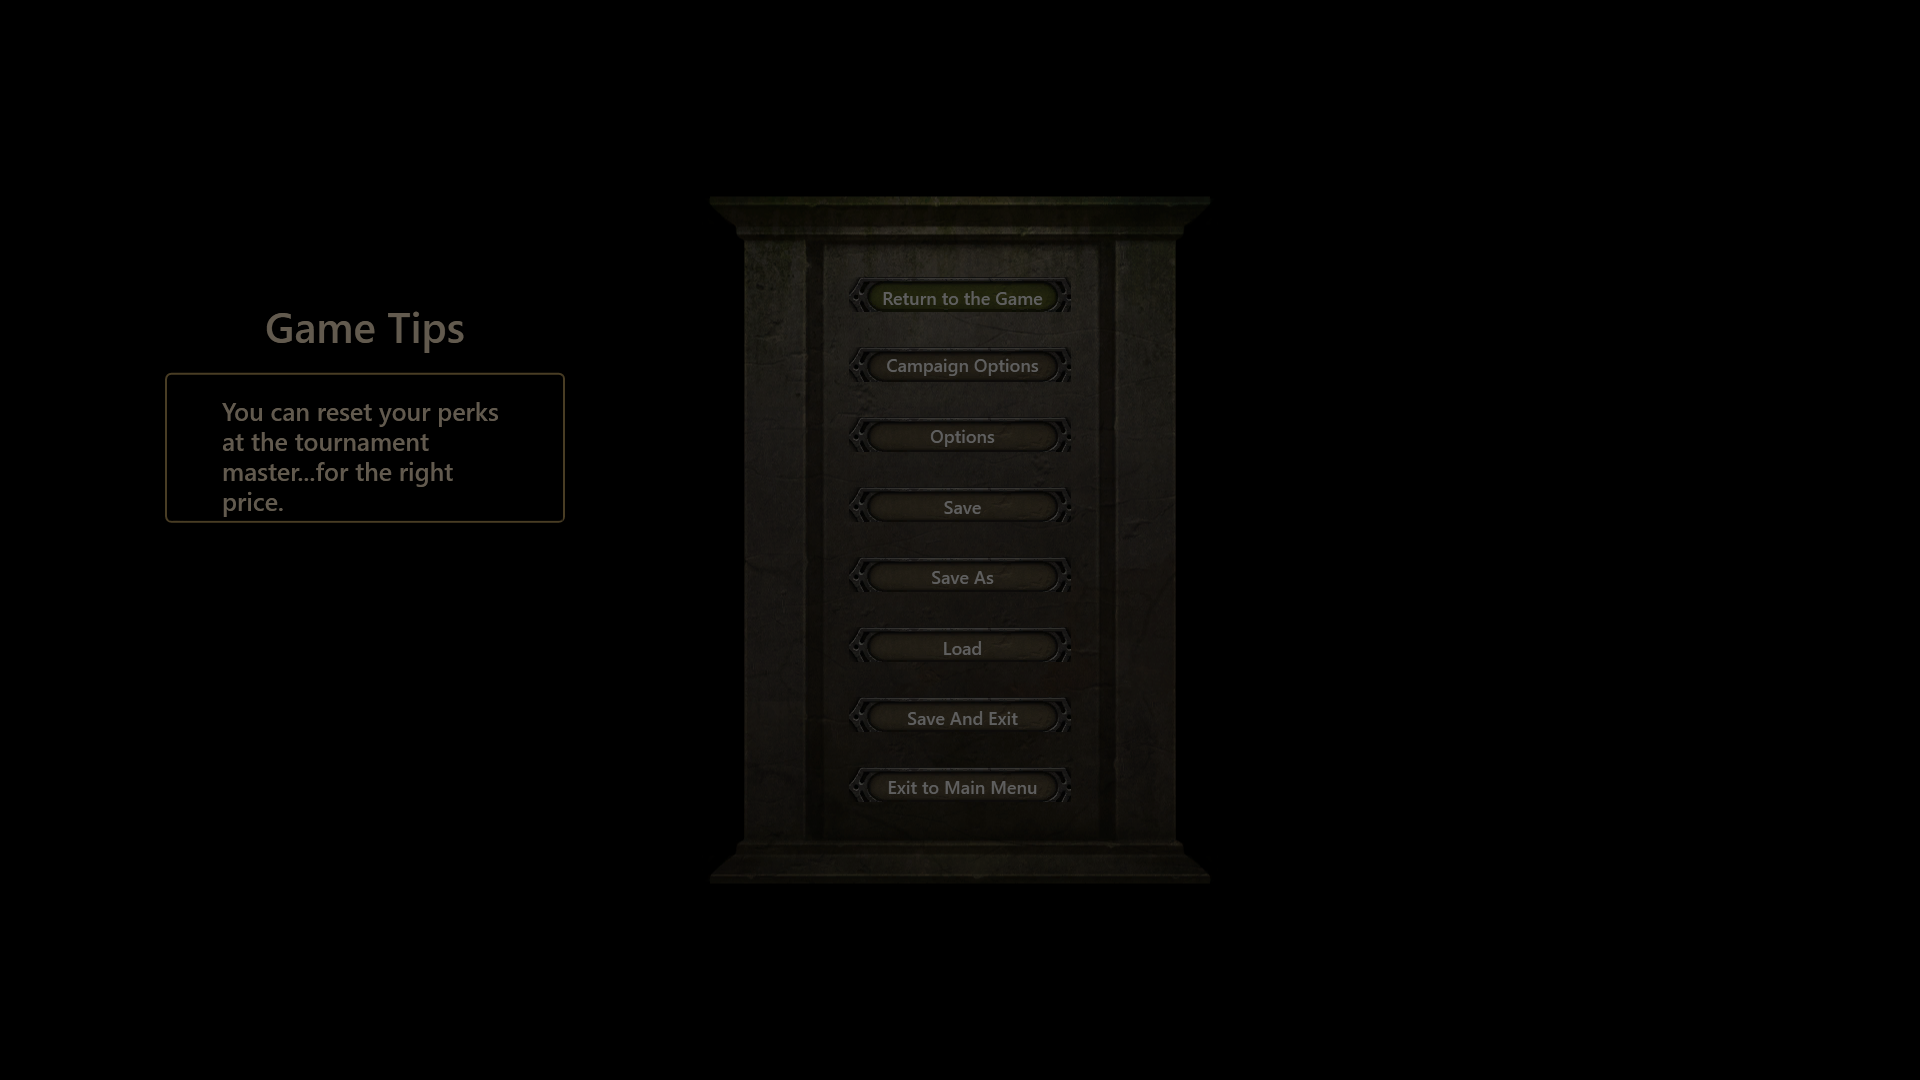
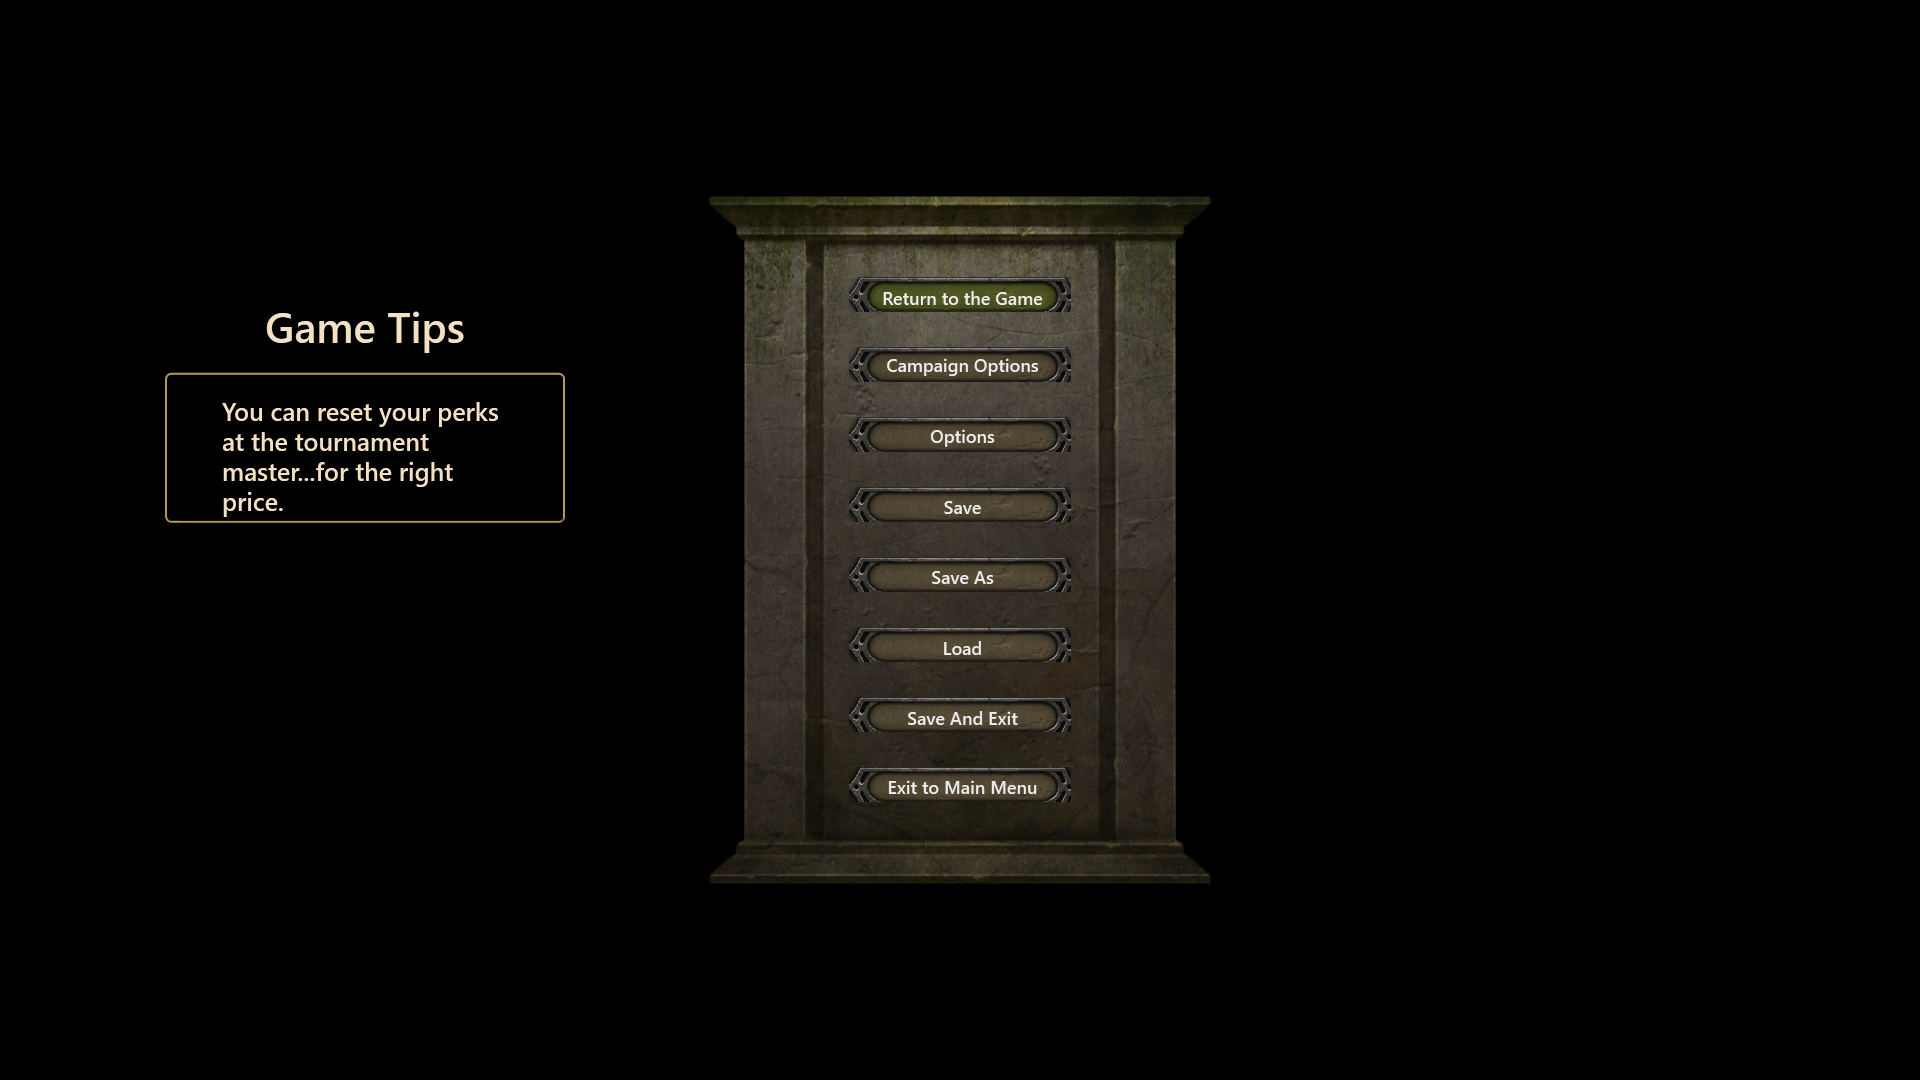
fix alpha affecting all children instead of only the parent element

Changed region(s): [[0.375, 0.1833, 0.625, 0.825], [0.0938, 0.3667, 0.25, 0.4889], [0.125, 0.275, 0.25, 0.3361]]

diff --git a/tests/Bannerlord.XmlPreview.VisualRegression.Tests/ImageBehaviorTests.cs b/tests/Bannerlord.XmlPreview.VisualRegression.Tests/ImageBehaviorTests.cs
@@ -17,6 +17,60 @@ namespace Bannerlord.XmlPreview.VisualRegression.Tests;
 
 public sealed class ImageBehaviorTests
 {
+    [Theory]
+    [InlineData("Widget", "1", 255)]
+    [InlineData("Widget", "0.5", 204)]
+    [InlineData("Widget", "0", 153)]
+    [InlineData("ImageWidget", "1", 255)]
+    [InlineData("ImageWidget", "0.5", 204)]
+    [InlineData("MaskedTextureWidget", "1", 255)]
+    [InlineData("ButtonWidget", "1", 255)]
+    [InlineData("ButtonWidget", "0.5", 230)]
+    [InlineData("ImageIdentifierWidget", "1", 255)]
+    [InlineData("ImageIdentifierWidget", "0.5", 230)]
+    public void TranslucentParentSpritePreservesIndependentChildAlpha(string type, string childAlpha, int expectedChild)
+    {
+        SnapshotCaptureTests.Sta(() =>
+        {
+            var child = new WidgetNode("Widget", new Dictionary<string, string>
+            {
+                [PrefabVisualTreeHelper.DebugWidgetPathAttributeName] = "Window > Parent > Child",
+                ["Id"] = "child",
+                ["WidthSizePolicy"] = "Fixed", ["HeightSizePolicy"] = "Fixed",
+                ["SuggestedWidth"] = "10", ["SuggestedHeight"] = "4",
+                ["Sprite"] = "source", ["AlphaFactor"] = childAlpha
+            }, []);
+            var parentAttributes = new Dictionary<string, string>
+            {
+                [PrefabVisualTreeHelper.DebugWidgetPathAttributeName] = "Window > Parent",
+                ["WidthSizePolicy"] = "Fixed", ["HeightSizePolicy"] = "Fixed",
+                ["SuggestedWidth"] = "40", ["SuggestedHeight"] = "20",
+                ["Sprite"] = type == "ButtonWidget" ? "" : "source",
+                ["Brush"] = type == "ButtonWidget" ? "translucent" : "",
+                ["ImageId"] = "source", ["MaskSprite"] = "source",
+                ["Brush.AlphaFactor"] = type == "ImageIdentifierWidget" ? "0.5" : "1",
+                ["Color"] = "#000000FF", ["AlphaFactor"] = "0.4"
+            };
+            PrefabNode parent = type == "ButtonWidget"
+                ? new ButtonWidgetNode(type, parentAttributes, [child])
+                : new WidgetNode(type, parentAttributes, [child]);
+            var (root, diagnostics) = Render(new Images(), parent, new Size(40, 20));
+            foreach (var border in Elements(root).OfType<Border>()) border.CornerRadius = new CornerRadius(0);
+            var pixels = WpfPreviewCapture.Capture(root, new("independent-alpha", 40, 20, Background: "#FFFFFF"));
+            var childVisual = Elements(root).Single(e => PreviewElementDebugProperties.GetDebugInfo(e)?.GetAttributeDisplayValue("Id") == "child");
+            var childPosition = childVisual.TransformToAncestor(root).Transform(new Point(1, 1));
+            var childOffset = ((int)childPosition.Y * 40 + (int)childPosition.X) * 3;
+            Assert.All(pixels.Pixels.Skip(childOffset).Take(3), value => Assert.InRange(value, expectedChild - 1, expectedChild + 1));
+            var expectedBackdrop = type is "ButtonWidget" or "ImageIdentifierWidget" ? 204 : 153;
+            Assert.All(pixels.Pixels.Skip((15 * 40 + 35) * 3).Take(3), value => Assert.InRange(value, expectedBackdrop - 1, expectedBackdrop + 1));
+            Assert.All(Elements(root).OfType<Border>(), border => Assert.Equal(1, border.Opacity));
+            Assert.Equal(type == "ImageIdentifierWidget" ? "0.2" : "0.4",
+                diagnostics.RenderStructure!.Root.Children[0].Properties["Resolved.Opacity"]);
+            Assert.Equal(RenderCompletionStatus.Complete, diagnostics.CompletionStatus);
+            return 0;
+        });
+    }
+
     [Fact]
     public void AlphaBoundsAreIdenticalForPremultipliedAndOtherPixelFormats()
     {
@@ -168,7 +222,8 @@ public sealed class ImageBehaviorTests
         {
             var (root, diagnostics) = Render("ImageWidget", ("Sprite", "source"), ("Stretch", "Fill"), ("AlphaFactor", "0.5"), ("Color", "#FF0000FF"));
             var widget = ImageWidget(root);
-            Assert.Equal(2, widget.ActualWidth); Assert.Equal(1, widget.ActualHeight); Assert.Equal(.5, widget.Opacity);
+            Assert.Equal(2, widget.ActualWidth); Assert.Equal(1, widget.ActualHeight); Assert.Equal(1, widget.Opacity);
+            Assert.Equal(.5, Elements(widget).OfType<Image>().Single().Opacity);
             Assert.Equal(RenderCompletionStatus.Complete, diagnostics.CompletionStatus);
             var pixels = WpfPreviewCapture.Capture(root, new("images", 2, 1, Background: "#000000"));
             Assert.InRange(pixels.Pixels[0], 127, 128); Assert.Equal(0, pixels.Pixels[1]); Assert.Equal(0, pixels.Pixels[2]);
@@ -277,12 +332,17 @@ public sealed class ImageBehaviorTests
             ["WidthSizePolicy"] = "Fixed", ["HeightSizePolicy"] = "Fixed", ["SuggestedWidth"] = "2", ["SuggestedHeight"] = "1" };
         foreach (var (name, value) in values) attrs[name] = value;
         var node = new WidgetNode(type, attrs, []);
-        var rootAttrs = new Dictionary<string, string>(attrs) { [PrefabVisualTreeHelper.DebugWidgetPathAttributeName] = "Window" };
+        return Render(assets, node);
+    }
+    private static (FrameworkElement, PreviewDiagnostics) Render(Images assets, PrefabNode node, Size? size = null)
+    {
+        var rootAttrs = new Dictionary<string, string> { [PrefabVisualTreeHelper.DebugWidgetPathAttributeName] = "Window" };
         rootAttrs["WidthSizePolicy"] = rootAttrs["HeightSizePolicy"] = "Fixed";
         var document = new PrefabDocument("fixture.xml", new WindowNode(rootAttrs, [node]), new Dictionary<string, string>(), new HashSet<string>(), PrefabWidgetPropertyMap.Empty, PrefabWidgetReferenceMap.Empty);
         var diagnostics = new PreviewDiagnostics();
         var renderer = new PrefabRenderer(assets, new BannerlordBrushMetricsProvider(assets), new BannerlordBrushOverlayFeatureHandler(),
-            new SnapshotCaptureTests.EmptyData(), new ImageLayout(), new BannerlordWidgetTextSourceProvider(), new BannerlordWidgetDebugMetadataProvider(), new BannerlordBehaviorRuleProvider());
+            new SnapshotCaptureTests.EmptyData(), new ImageLayout { PreviewSize = size ?? new Size(2, 1) },
+            new BannerlordWidgetTextSourceProvider(), new BannerlordWidgetDebugMetadataProvider(), new BannerlordBehaviorRuleProvider());
         var root = renderer.Render(document, diagnostics, new("fixture.xml", new Dictionary<string, string>(), new Dictionary<string, IReadOnlyDictionary<string, string>>(), []));
         return (root, diagnostics);
     }
@@ -299,13 +359,18 @@ public sealed class ImageBehaviorTests
         public BitmapSource? SourceImage { get; init; }
         public Task WarmUpAsync(CancellationToken token = default) => Task.CompletedTask;
         public Task WarmUpAssetsAsync(IReadOnlyCollection<string> brushes, IReadOnlyCollection<string> sprites, CancellationToken token = default) => Task.CompletedTask;
-        public BrushDefinition? FindBrush(string? name) => null;
+        public BrushDefinition? FindBrush(string? name) => name == "translucent"
+            ? new(name, "fixture", [new("Default", "black", null, null, null, null, .5,
+                null, null, null, false, null, null, null, null, null, null)],
+                new Dictionary<string, BrushStyleDefinition>(), null, null, null, null)
+            : null;
         public SpriteDefinition? FindSprite(string? name) => name == "frame"
             ? new(name, "fixture", "NineRegionSprite", name, "fixture", 1, 3, 3, 1, 1, 1, 1)
-            : name is "source" or "mask" ? new(name, "fixture", "Sprite", name, "fixture", 1, 2, 1) : null;
+            : name is "source" or "mask" or "black" ? new(name, "fixture", "Sprite", name, "fixture", 1, 2, 1) : null;
         public ImageSource? GetSpriteImage(string? name) => name switch
         {
             "source" => SourceImage ?? Bitmap([255, 255, 255, 255, 255, 255, 255, 255]),
+            "black" => Bitmap([0, 0, 0, 255, 0, 0, 0, 255]),
             "mask" => Bitmap([255, 255, 255, 255, 0, 0, 0, 0]),
             "mask-r8" => Bitmap([255, 255, 255, 255, 0, 0, 0, 255]),
             "frame" => FrameBitmap(), _ => null
@@ -336,6 +401,6 @@ public sealed class ImageBehaviorTests
     private sealed class ImageLayout : Bannerlord.XmlPreview.Core.Abstractions.IRootLayoutHints
     {
         public Size PreviewSize { get; set; } = new(2, 1);
-        public Size ResolveRootSize(Func<string?, double, double> resolveDouble) => new(2, 1);
+        public Size ResolveRootSize(Func<string?, double, double> resolveDouble) => PreviewSize;
     }
 }

diff --git a/src/Bannerlord.XmlPreview.Core/Rendering/PrefabRenderContext.cs b/src/Bannerlord.XmlPreview.Core/Rendering/PrefabRenderContext.cs
@@ -2120,18 +2120,48 @@ public sealed partial class PrefabRenderContext
         }
     }
 
-    public void ApplyOpacity(UIElement element, IReadOnlyDictionary<string, string> attributes)
+    public void ApplyOpacity(UIElement element, IReadOnlyDictionary<string, string> attributes, Panel? childHost = null)
     {
         var opacity = attributes.TryGetValue("AlphaFactor", out var alphaFactor)
             ? Math.Clamp(ResolveDouble(alphaFactor, 1), 0, 1)
             : 1d;
 
-        if (IsDisabled(attributes))
+        element.Opacity = IsDisabled(attributes) ? 0.88 : 1;
+        PreviewElementDebugProperties.SetOwnVisualAlpha(element, childHost is null ? 1 : opacity);
+        if (childHost is null)
+            element.Opacity *= opacity;
+        else
+            ApplyOwnVisualOpacity(element, childHost, opacity);
+    }
+
+    // Gauntlet Widget.OnRender applies AlphaFactor to its sprite material;
+    // Widget.Render draws children independently. Never fade their WPF host.
+    private static void ApplyOwnVisualOpacity(UIElement element, Panel childHost, double opacity)
+    {
+        if (opacity == 1) return;
+
+        Brush? Fade(Brush? brush)
         {
-            opacity *= 0.88;
+            if (brush is null) return null;
+            var copy = brush.CloneCurrentValue();
+            copy.Opacity *= opacity;
+            return copy;
         }
 
-        element.Opacity = opacity;
+        if (element is Border border)
+        {
+            border.Background = Fade(border.Background);
+            border.BorderBrush = Fade(border.BorderBrush);
+            if (border.Child is { } child) ApplyOwnVisualOpacity(child, childHost, opacity);
+        }
+        else if (element is Panel panel)
+        {
+            panel.Background = Fade(panel.Background);
+            if (panel == childHost) return;
+            foreach (UIElement child in panel.Children) ApplyOwnVisualOpacity(child, childHost, opacity);
+        }
+        else
+            element.Opacity *= opacity;
     }
 
     public void ApplyVisibility(UIElement element, IReadOnlyDictionary<string, string> attributes)

diff --git a/src/Bannerlord.XmlPreview.Core/Rendering/ImageMaterialization.cs b/src/Bannerlord.XmlPreview.Core/Rendering/ImageMaterialization.cs
@@ -17,6 +17,7 @@ public sealed partial class PrefabRenderContext
         var attributes = new Dictionary<string, string>(node.Attributes, StringComparer.OrdinalIgnoreCase);
         // Image Color tints source pixels; it must not also paint the container background.
         attributes.Remove("Color");
+        attributes.Remove("AlphaFactor"); // Apply after replacing/adding the image visual.
         if (dynamicImage)
         {
             attributes.Remove("Brush"); attributes.Remove("Sprite");
@@ -80,8 +81,6 @@ public sealed partial class PrefabRenderContext
             });
             PreviewElementDebugProperties.SetSelectionBounds(border, new Rect(new Point(0, 0), size));
         }
-        if (node.Attributes.TryGetValue("Brush.AlphaFactor", out var alpha))
-            border.Opacity *= Math.Clamp(ResolveDouble(alpha, 1), 0, 1);
         ReportImage(border, node, resolution, "source");
         if (resolution.Status is ImageResolutionStatus.Missing or ImageResolutionStatus.RuntimeOnly or ImageResolutionStatus.Invalid)
         {
@@ -96,6 +95,14 @@ public sealed partial class PrefabRenderContext
             border.Background = new SolidColorBrush(Color.FromArgb(50, color.R, color.G, color.B));
             grid.Children.Add(new TextBlock { Text = $"{resolution.Status}: {request.Provider ?? request.Identity}",
                 Foreground = new SolidColorBrush(color), TextWrapping = TextWrapping.Wrap, FontSize = 11 });
+        }
+        ApplyOpacity(border, node.Attributes, rendered.ChildHost);
+        if (node.Attributes.TryGetValue("Brush.AlphaFactor", out var alpha))
+        {
+            var brushAlpha = Math.Clamp(ResolveDouble(alpha, 1), 0, 1);
+            ApplyOwnVisualOpacity(border, rendered.ChildHost!, brushAlpha);
+            PreviewElementDebugProperties.SetOwnVisualAlpha(border,
+                PreviewElementDebugProperties.GetOwnVisualAlpha(border) * brushAlpha);
         }
         return rendered;
     }

diff --git a/src/Bannerlord.XmlPreview.Core/Models/Nodes/ContainerPrefabNode.cs b/src/Bannerlord.XmlPreview.Core/Models/Nodes/ContainerPrefabNode.cs
@@ -66,7 +66,6 @@ public abstract class ContainerPrefabNode : PrefabNode
         context.ApplySizing(border, Attributes, parentSize);
         context.ApplyAssetSizing(border, spriteId, brushId, isDisabled);
         context.ApplyBrushBorderStyle(border, brushId, isDisabled, _frameBrush);
-        context.ApplyOpacity(border, Attributes);
         context.ApplyVisibility(border, Attributes);
         context.ApplyToolTip(border, Name, Attributes);
         context.AttachElementDebugMetadata(border, Name, Attributes, [spriteId], [brushId], isDisabled);
@@ -128,6 +127,8 @@ public abstract class ContainerPrefabNode : PrefabNode
             var overlayHeight = double.IsNaN(border.Height) || border.Height <= 0 ? containerSize.Height : border.Height;
             context.AddBrushOverlay(layout, brushId, isDisabled, overlayWidth, overlayHeight, 0);
         }
+
+        context.ApplyOpacity(border, Attributes, childCanvas);
 
         var alignmentBounds = !_frameBrush && !string.IsNullOrWhiteSpace(spriteId)
             ? CreateSpriteAlignmentBounds(selectionRect, containerSize)

diff --git a/src/Bannerlord.XmlPreview.Core/Rendering/PreviewElementDebugProperties.cs b/src/Bannerlord.XmlPreview.Core/Rendering/PreviewElementDebugProperties.cs
@@ -5,6 +5,12 @@ namespace Bannerlord.XmlPreview.Rendering;
 
 public static class PreviewElementDebugProperties
 {
+    // Alpha applied to a widget's own visuals, independently of its child host.
+    public static readonly DependencyProperty OwnVisualAlphaProperty = DependencyProperty.RegisterAttached(
+        "OwnVisualAlpha", typeof(double), typeof(PreviewElementDebugProperties), new PropertyMetadata(1d));
+    public static double GetOwnVisualAlpha(DependencyObject element) => (double)element.GetValue(OwnVisualAlphaProperty);
+    public static void SetOwnVisualAlpha(DependencyObject element, double value) => element.SetValue(OwnVisualAlphaProperty, value);
+
     public static readonly DependencyProperty SourceLocationProperty = DependencyProperty.RegisterAttached(
         "SourceLocation", typeof(SourceLocation), typeof(PreviewElementDebugProperties), new PropertyMetadata(null));
     public static SourceLocation? GetSourceLocation(DependencyObject element) => (SourceLocation?)element.GetValue(SourceLocationProperty);

diff --git a/src/Bannerlord.XmlPreview.Core/Models/Nodes/BrushChromeNodeBase.cs b/src/Bannerlord.XmlPreview.Core/Models/Nodes/BrushChromeNodeBase.cs
@@ -31,7 +31,6 @@ public abstract class BrushChromeNodeBase : PrefabNode
         context.ApplySizing(border, Attributes, parentSize);
         context.ApplyButtonSizing(border, Attributes, chrome.PrimaryBrushId, chrome.IsDisabled);
         context.ApplyBrushBorderStyle(border, chrome.PrimaryBrushId, chrome.IsDisabled, false);
-        context.ApplyOpacity(border, Attributes);
         context.ApplyVisibility(border, Attributes);
         context.ApplyToolTip(border, Name, Attributes);
         context.AttachElementDebugMetadata(border, Name, Attributes, null, chrome.DebugBrushIds, chrome.IsDisabled);
@@ -48,6 +47,7 @@ public abstract class BrushChromeNodeBase : PrefabNode
         FinalizeContent(context, childHost, initialChromeSize, chrome);
 
         context.AddBrushOverlay(layout, chrome.PrimaryBrushId, chrome.IsDisabled, initialChromeSize.Width, initialChromeSize.Height, 0);
+        context.ApplyOpacity(border, Attributes, childHost);
 
         return new RenderedPrefabNode(border, childHost);
     }

diff --git a/src/Bannerlord.XmlPreview.Core/Rendering/RegressionRenderOptions.cs b/src/Bannerlord.XmlPreview.Core/Rendering/RegressionRenderOptions.cs
@@ -79,7 +79,9 @@ internal static class RegressionSnapshotProducer
             {
                 properties["Resolved.IsVisible"] = registration.Element.Visibility == Visibility.Visible ? "true" : "false";
                 properties["Resolved.IsEnabled"] = registration.Element.IsEnabled ? "true" : "false";
-                properties["Resolved.Opacity"] = registration.Element.Opacity.ToString("R", System.Globalization.CultureInfo.InvariantCulture);
+                // Render Structure describes widget visual opacity, independent of WPF host composition.
+                properties["Resolved.Opacity"] = (registration.Element.Opacity *
+                    PreviewElementDebugProperties.GetOwnVisualAlpha(registration.Element)).ToString("R", System.Globalization.CultureInfo.InvariantCulture);
                 if (PreviewElementDebugProperties.GetImageResolution(registration.Element) is { } image)
                 {
                     properties["Resolved.ImageStatus"] = image.Status.ToString();

diff --git a/src/Bannerlord.XmlPreview.Bannerlord/Widgets/TabControlNode.cs b/src/Bannerlord.XmlPreview.Bannerlord/Widgets/TabControlNode.cs
@@ -23,7 +23,7 @@ public sealed class TabControlNode : PrefabNode
         border.Child = childCanvas;
 
         context.ApplySizing(border, Attributes, parentSize);
-        context.ApplyOpacity(border, Attributes);
+        context.ApplyOpacity(border, Attributes, childCanvas);
         context.ApplyVisibility(border, Attributes);
         context.ApplyToolTip(border, Name, Attributes);
         context.AttachElementDebugMetadata(border, Name, Attributes);

diff --git a/src/Bannerlord.XmlPreview.Core/Models/Nodes/GridWidgetNode.cs b/src/Bannerlord.XmlPreview.Core/Models/Nodes/GridWidgetNode.cs
@@ -16,7 +16,7 @@ public class GridWidgetNode : PrefabNode
         var panel = CreatePanel(context, Attributes);
 
         context.ApplySizing(panel, Attributes, parentSize);
-        context.ApplyOpacity(panel, Attributes);
+        context.ApplyOpacity(panel, Attributes, panel);
         context.ApplyVisibility(panel, Attributes);
         context.ApplyToolTip(panel, Name, Attributes);
         context.AttachElementDebugMetadata(panel, Name, Attributes);

diff --git a/src/Bannerlord.XmlPreview.Bannerlord/Widgets/NavigatableListPanelNode.cs b/src/Bannerlord.XmlPreview.Bannerlord/Widgets/NavigatableListPanelNode.cs
@@ -19,7 +19,7 @@ public sealed class NavigatableListPanelNode : PrefabNode
         };
 
         context.ApplySizing(panel, Attributes, parentSize);
-        context.ApplyOpacity(panel, Attributes);
+        context.ApplyOpacity(panel, Attributes, panel);
         context.ApplyVisibility(panel, Attributes);
         context.ApplyToolTip(panel, Name, Attributes);
         context.AttachElementDebugMetadata(panel, Name, Attributes);

diff --git a/src/Bannerlord.XmlPreview.Core/Models/Nodes/ItemTemplateNode.cs b/src/Bannerlord.XmlPreview.Core/Models/Nodes/ItemTemplateNode.cs
@@ -26,7 +26,7 @@ public sealed class ItemTemplateNode : PrefabNode
         };
 
         context.ApplySizing(canvas, Attributes, parentSize);
-        context.ApplyOpacity(canvas, Attributes);
+        context.ApplyOpacity(canvas, Attributes, canvas);
         context.ApplyVisibility(canvas, Attributes);
         context.ApplyToolTip(canvas, Name, Attributes);
         context.AttachElementDebugMetadata(canvas, Name, Attributes);

diff --git a/src/Bannerlord.XmlPreview.Core/Models/Nodes/ListPanelNode.cs b/src/Bannerlord.XmlPreview.Core/Models/Nodes/ListPanelNode.cs
@@ -24,7 +24,7 @@ public sealed class ListPanelNode : PrefabNode
         };
 
         context.ApplySizing(panel, Attributes, parentSize);
-        context.ApplyOpacity(panel, Attributes);
+        context.ApplyOpacity(panel, Attributes, panel);
         context.ApplyVisibility(panel, Attributes);
         context.ApplyToolTip(panel, Name, Attributes);
         context.AttachElementDebugMetadata(panel, Name, Attributes);
